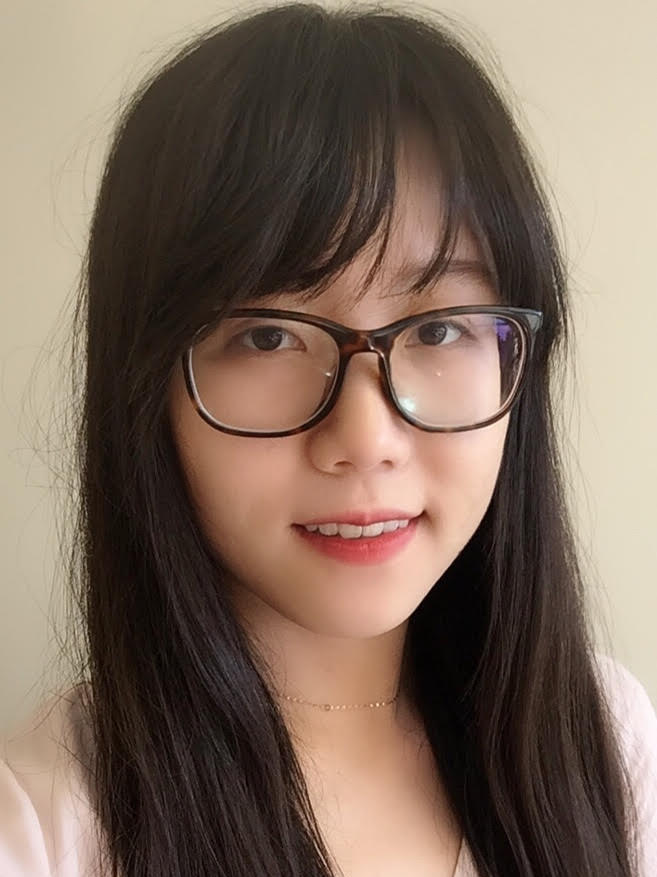
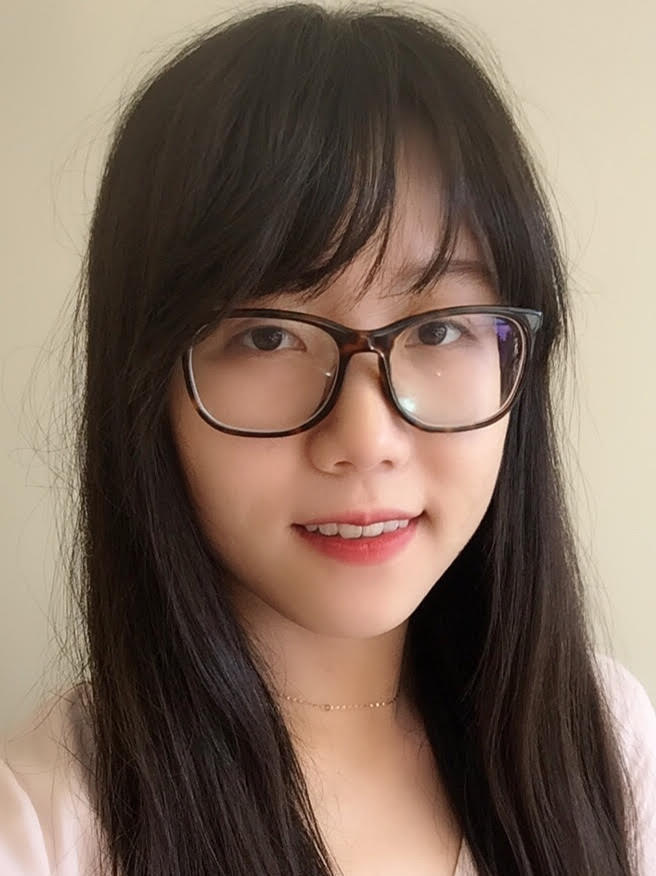
added phil face

diff --git a/index.html b/index.html
@@ -244,7 +244,7 @@
         <div class="col-md-4 mt-3 mb-3 mb-md-0" class="phil">
           <div class="card py-4 h-100">
             <div class="card-body text-center">
-              <img src="/img/doe3.jpg" alt="Jon" width=90% height=90%>
+              <img src="/img/phil.jpg" alt="Jon" width=90% height=90%>
               <div class="small text-uppercase m-4">Philippe</div>
               <hr class="my-4">
               <div class="small text-black-50">cool guy</div>
